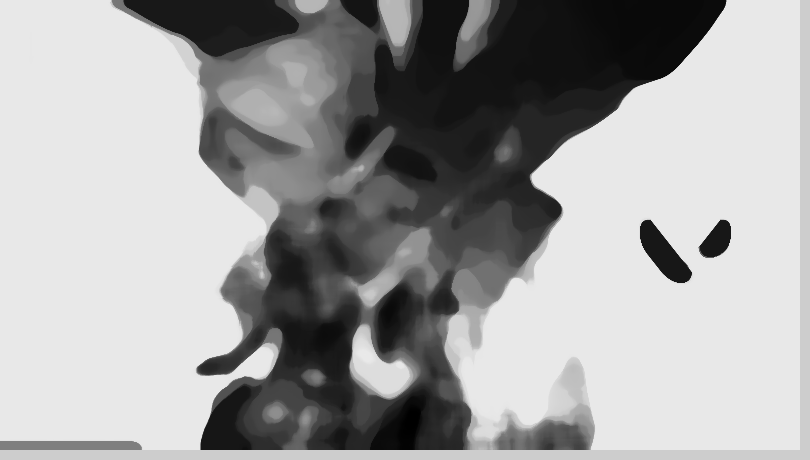
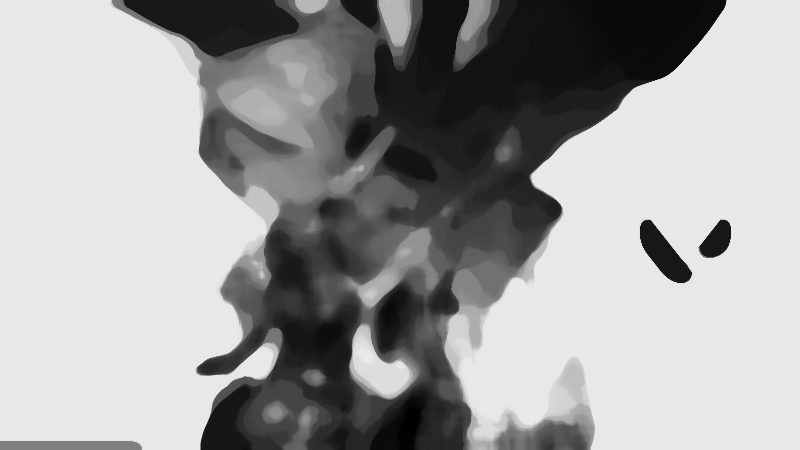
fix: トリミングの範囲を修正

diff --git a/Kadai5/Kadai5.cpp b/Kadai5/Kadai5.cpp
@@ -86,7 +86,7 @@ void my_medianBlur(const Mat& in, Mat& out, int filter_size)
         }
     }
     // 境界処理用に拡張した部分をトリミング
-    out = Mat(dst_img, Rect(affect_area, affect_area, width - affect_area, height - affect_area));
+    out = Mat(dst_img, Rect(affect_area, affect_area, width - affect_area * 2, height - affect_area * 2));
 }
 
 int main()
